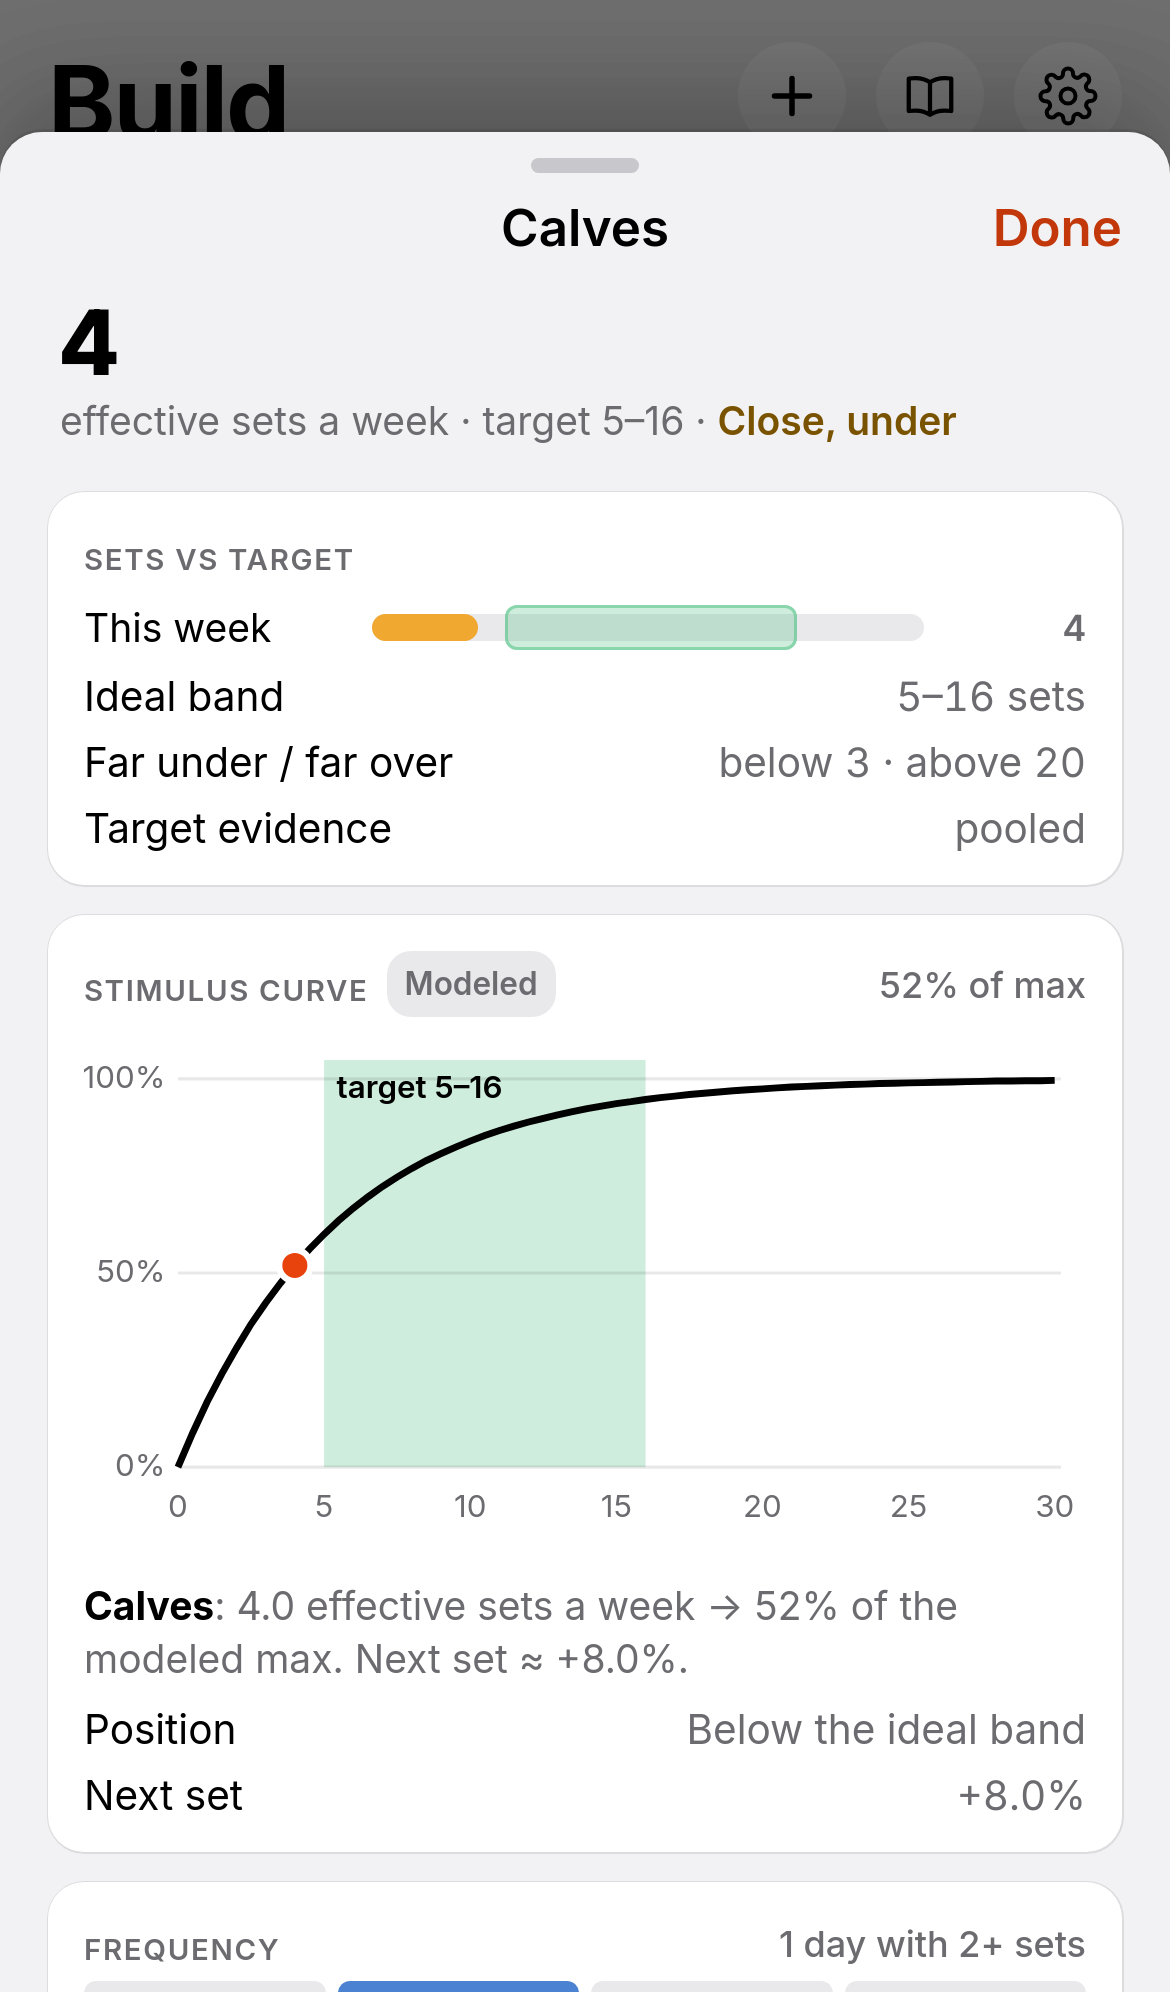
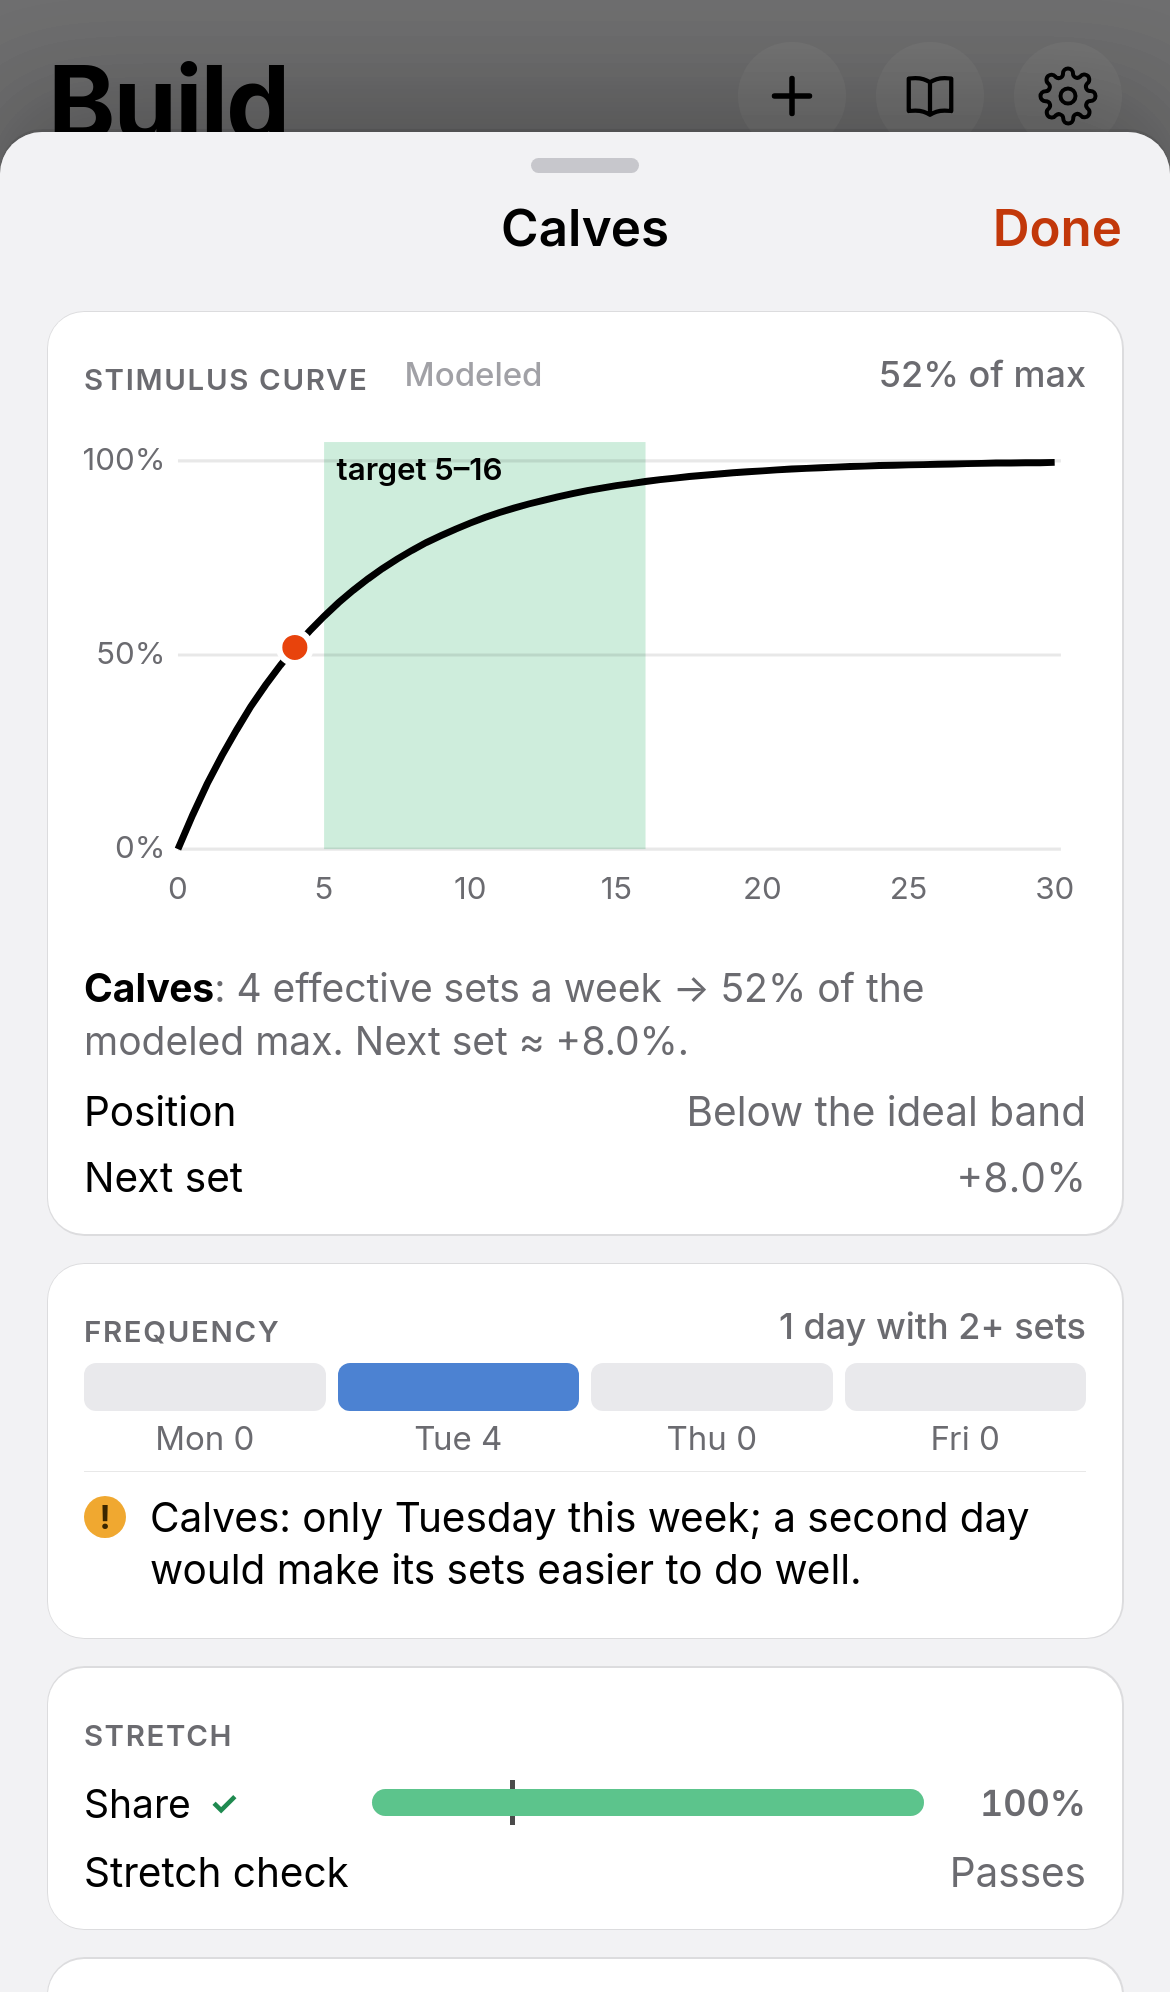
Storyboard: quieter Modeled / Thin evidence labels as muted inline text

diff --git a/storyboard/board.js b/storyboard/board.js
@@ -374,7 +374,7 @@ function renderAnalysis(){if(!AN)return;const dt=RD(),{A,C,d}=stats(),R=dt.rules
   const ckRow=(id,o={})=>{const it=IB[id];if(!it)return '';const def=AMI[id]||{},s=st(it);
     return `<div class="ckr${s?'':' ms'}" data-metric="${id}" data-kind="${it.kind}" data-status="${def.status}" data-evidence="${def.evidence}"${it.status?` data-check="${it.status}"`:''}${s?` data-state="${s}"`:''}${id==='volume_in_reach'?` data-amber="${AMB.length}"`:''}>${s?ICO[s]:''}<span class="ckt">${LB(id)}</span><span class="ckv num">${it.status==='n/a'?`n/a · ${NA(it)}`:o.v!=null?o.v:(VAL[id]||'')}</span>${ibx(id)}</div>${o.after||''}${o.noflags?'':flagsOf(it)}`};
   const gfx=(id,inner,o={})=>{const it=IB[id];if(!it)return '';const s=st(it),def=AMI[id]||{};
-    return `<div class="agfx" data-metric="${id}" data-kind="${it.kind}" data-status="${def.status}" data-evidence="${def.evidence}"${it.status?` data-check="${it.status}"`:''}${s?` data-state="${s}"`:''}><div class="ash">${s?ICO[s]:''}<span>${o.label||LB(id)}</span>${o.mod?'<span class="tag mod">Modeled</span>':''}<span class="ashv num">${o.v!=null?o.v:(VAL[id]||'')}</span>${ibx(id)}</div>${inner}${o.noflags?'':flagsOf(it)}</div>`};
+    return `<div class="agfx" data-metric="${id}" data-kind="${it.kind}" data-status="${def.status}" data-evidence="${def.evidence}"${it.status?` data-check="${it.status}"`:''}${s?` data-state="${s}"`:''}><div class="ash">${s?ICO[s]:''}<span>${o.label||LB(id)}</span>${o.mod?'<span class="evl" data-ev="modeled">Modeled</span>':''}<span class="ashv num">${o.v!=null?o.v:(VAL[id]||'')}</span>${ibx(id)}</div>${inner}${o.noflags?'':flagsOf(it)}</div>`};
   const hbar=(lab,w,v,o={})=>`<div class="hbar${o.cls?' '+o.cls:''}"${o.attr||''}><span class="vm hbs">${lab}</span><span class="hbt"><i class="${o.c||''}" style="--w:${Math.max(0,Math.min(100,w))}%"></i>${o.x!=null?`<b style="--x:${o.x}%"></b>`:''}</span><span class="vn num">${v}</span></div>`;
   // ---- Volume: modeled stimulus (curve + one row per muscle with its green ideal band), weekly sets with fixes inline, checklist
   const volFix=new Set((SGS.volume||[]).filter(s=>s.source==='weekly_band'&&s.fixes.length).map(sgM));
@@ -447,7 +447,7 @@ function applyOpsBoard(ops){for(const o of ops){const D=B.days.find(x=>x.day===o
   else if(o.op==='remove'){const k=t.findIndex(x=>x.id===o.id);if(k<0)throw new Error('remove: no '+o.id);t.splice(k,1)}
   else throw new Error(o.op)}}
 function ddBody(){const m=CB.key,dt=RD(),d=checkDays(),lv=B.level,SH=ANL.sheet(dt,d,lv,null),P=window.MUSCLEDIVE.muscle(dt,d,lv,m,{sheet:SH}),{A}=stats();CFIX=[];
-  const s=P.sets,[stl,stk]=DDST[s.status]||[s.status,''],top=Math.max(s.red_over_above,s.effective,1)*1.04,X0=v=>Math.max(0,Math.min(100,v/top*100)),sec=(id,lab,inner,o={})=>`<div class="ddsec" id="deepdive-${m}-${id}" data-dd="${id}"><div class="ash"><span>${lab}</span>${o.mod?'<span class="tag mod">Modeled</span>':''}<span class="ashv num">${o.v||''}</span></div>${inner}</div>`;
+  const s=P.sets,[stl,stk]=DDST[s.status]||[s.status,''],top=Math.max(s.red_over_above,s.effective,1)*1.04,X0=v=>Math.max(0,Math.min(100,v/top*100)),sec=(id,lab,inner,o={})=>`<div class="ddsec" id="deepdive-${m}-${id}" data-dd="${id}"><div class="ash"><span>${lab}</span>${o.mod?'<span class="evl" data-ev="modeled">Modeled</span>':''}<span class="ashv num">${o.v||''}</span></div>${inner}</div>`;
   const kv=(k,v)=>`<div class="ddkv"><span>${k}</span><span class="num">${v}</span></div>`;
   const RAMP=e=>RAMPL(e);
   const rows=[];P.contributors.forEach(c=>c.days.forEach(x=>{const D=B.days.find(y=>y.day===x.day),t=D&&D.tiles.find(y=>y.id===c.id);if(t)rows.push({t,di:DAYS.indexOf(x.day),sets:x.sets,eff:x.effective_sets,share:c.share,name:c.name})}));

diff --git a/storyboard/sb.js b/storyboard/sb.js
@@ -1128,7 +1128,7 @@ const learnGo=lp=>{const [p,sx]=String(lp).split('#');return `#learn-f-${p}${sx?
 const ibtn=(id,attr='data-xpl')=>`<button class="ixb" ${attr}="${id}" aria-label="What is this?">${I('info',1.8)}</button>`;
 function explainSheet(id,extra=''){const it=itemDef(id);if(!it)return null;const x=it.explain||{},lp=x.learn_page;
   const s=sheet({title:'',cls:'grouped xsheet',right:'<button class="btn plain" data-x="close">Done</button>',
-    body:`<div class="xpl" data-item="${id}"><div class="xh">${kchip(it.kind)}<span class="tag ev ${it.evidence}">${EVT[it.evidence]||'Modeled'}</span></div><h3>${dispL(id,it.label)}</h3>${it.status==='proposed'?'<p class="xprop">This measure is still proposed in the analysis spec, not yet a settled check.</p>':''}
+    body:`<div class="xpl" data-item="${id}">${kchip(it.kind)?`<div class="xh">${kchip(it.kind)}</div>`:''}<div class="xpsh"><h3>${dispL(id,it.label)}</h3><span class="evl" data-ev="${it.evidence||'modeled'}">${EVT[it.evidence]||'Modeled'}</span></div>${it.status==='proposed'?'<p class="xprop">This measure is still proposed in the analysis spec, not yet a settled check.</p>':''}
      <div class="group xq"><div class="row"><div class="grow"><div class="xk">What it measures</div><p>${x.what||it.description||''}</p></div></div>
       <div class="row"><div class="grow"><div class="xk">How it's calculated</div><p>${x.how||it.formula||''}</p></div></div>
       <div class="row"><div class="grow"><div class="xk">Why it matters</div><p>${x.why||''}</p></div></div></div>

diff --git a/storyboard/sb.css b/storyboard/sb.css
@@ -1102,4 +1102,7 @@ details.ls.flash{box-shadow:0 0 0 3px var(--accent);border-radius:var(--r-md)}
 .ansheet .hbar button.cbx{-webkit-appearance:none;appearance:none;display:inline-grid;place-items:center;padding:0;margin:0 0 0 3px;background:none;border:0;box-shadow:none;width:16px;height:16px;min-width:0;min-height:0;vertical-align:-2px}
 /* Round 3 quick fixes */
 .ssn{margin:-2px 0 6px 0;font-size:12.5px;color:var(--text-2);line-height:1.35}
-.xprop{font-size:13px;color:var(--text-2);margin:2px 0 8px}
+.xprop{font-size:13px;color:var(--text-2);margin:2px 0 8px;padding:0 var(--s4)}
+/* evidence labels (Modeled / Thin evidence / Supported): quiet inline text beside the subhead, no chip; the full note is in the (i) sheet */
+.evl{display:inline;background:none;border:0;padding:0;margin:0 0 0 6px;border-radius:0;font-size:11px;font-weight:500;color:var(--text-3);letter-spacing:0;font-variant:normal;text-transform:none;white-space:nowrap;line-height:inherit;vertical-align:baseline}
+.xpsh{display:block;align-self:stretch;width:auto;padding:6px var(--s4) 4px}.xpl .xpsh h3{display:inline;padding:0;margin:0 6px 0 0}.xpsh .evl{margin-left:0}

diff --git a/storyboard/ARCHITECTURE-web-storyboard.md b/storyboard/ARCHITECTURE-web-storyboard.md
@@ -350,3 +350,4 @@ The suite runs all three (`r3*` checks).
   - Cut to N / Add N sets / Swap / Add / Remove / Move;
   - `fix.preview` only as a fallback.
   - No Coach display string is shown verbatim on the card.
+- Evidence labels (Modeled / Thin evidence / Supported) are `span.evl[data-ev]`: small muted text beside the subhead (`.ash` in Analysis and the deep-dive; `.xpsh` next to the explain-sheet title), with no background, border or padding. The ⓘ sheet keeps the full what / how / why. Checked by `qfEvidenceLabelsQuietInlineNoChip`.
